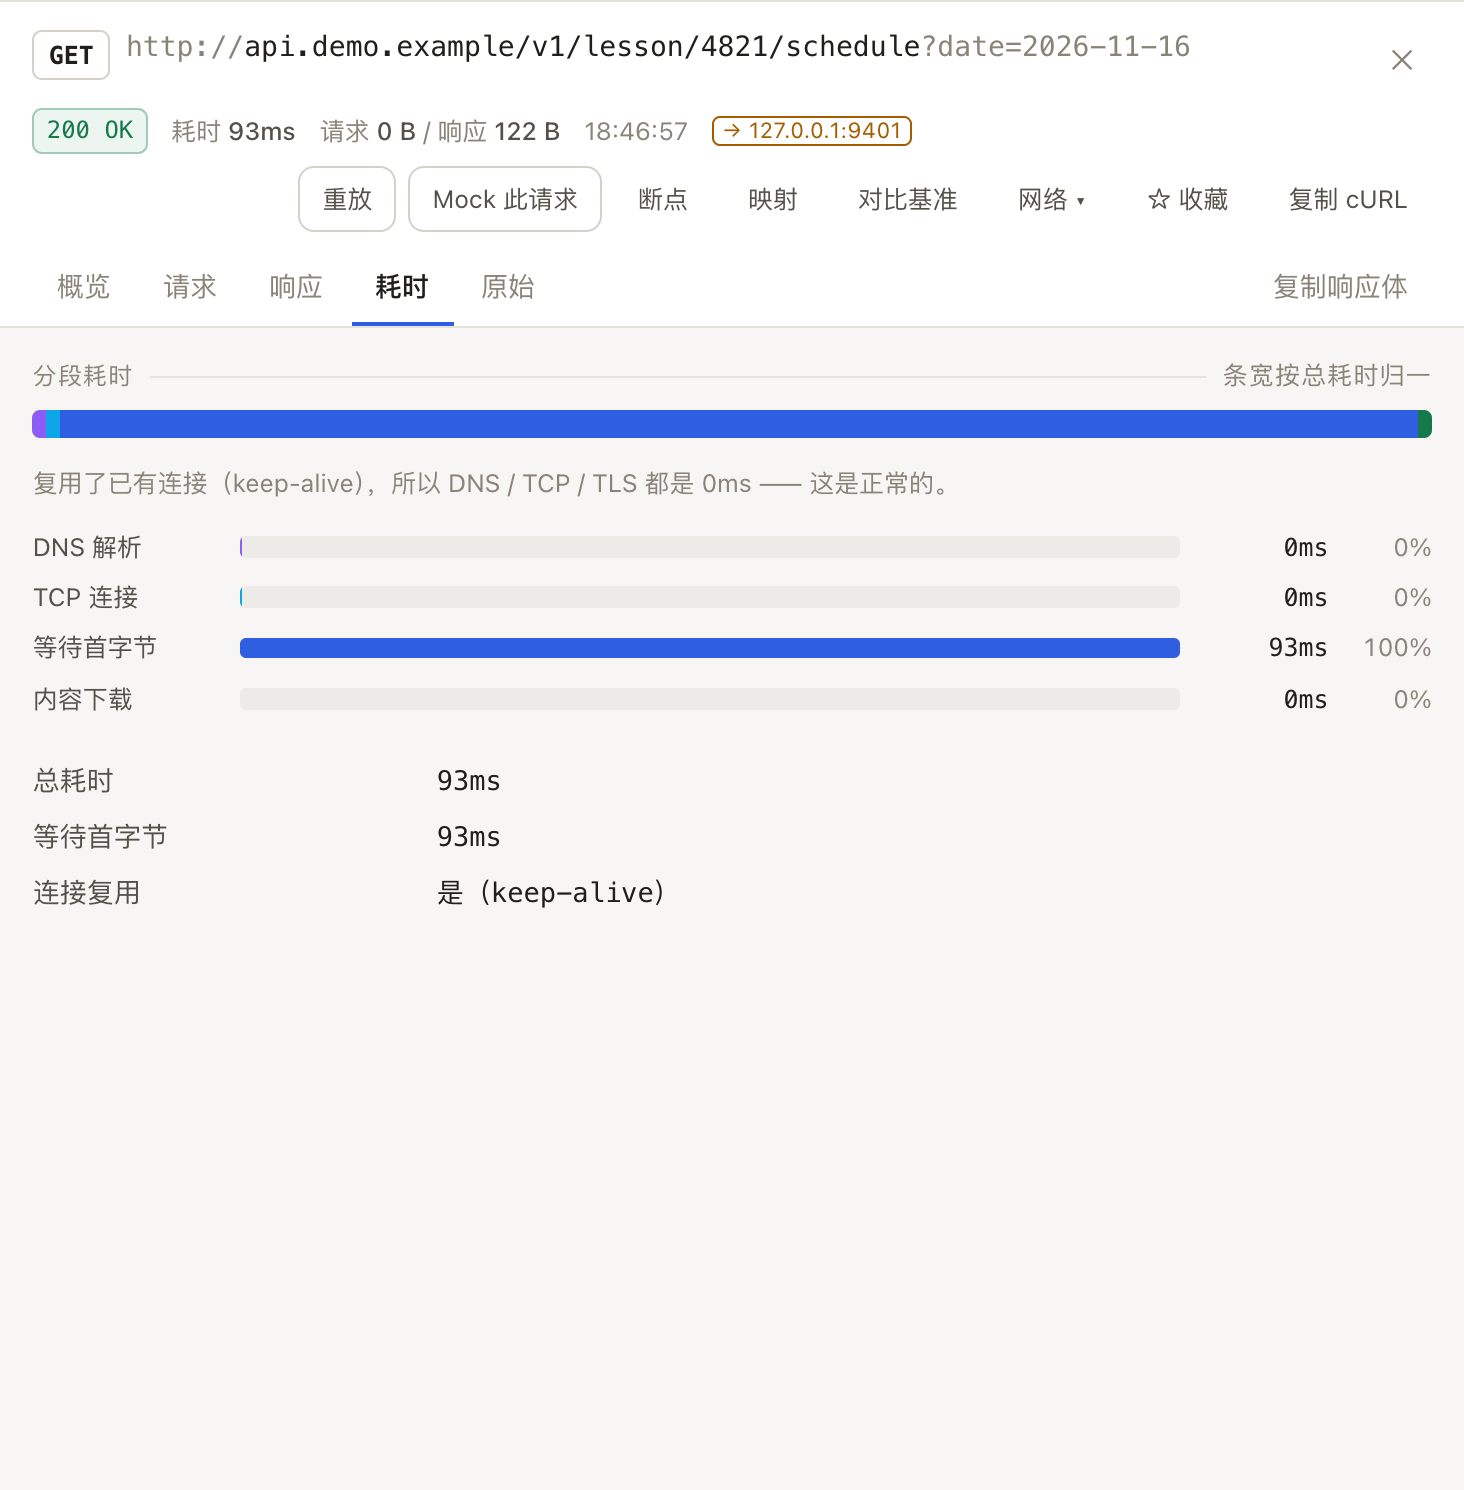
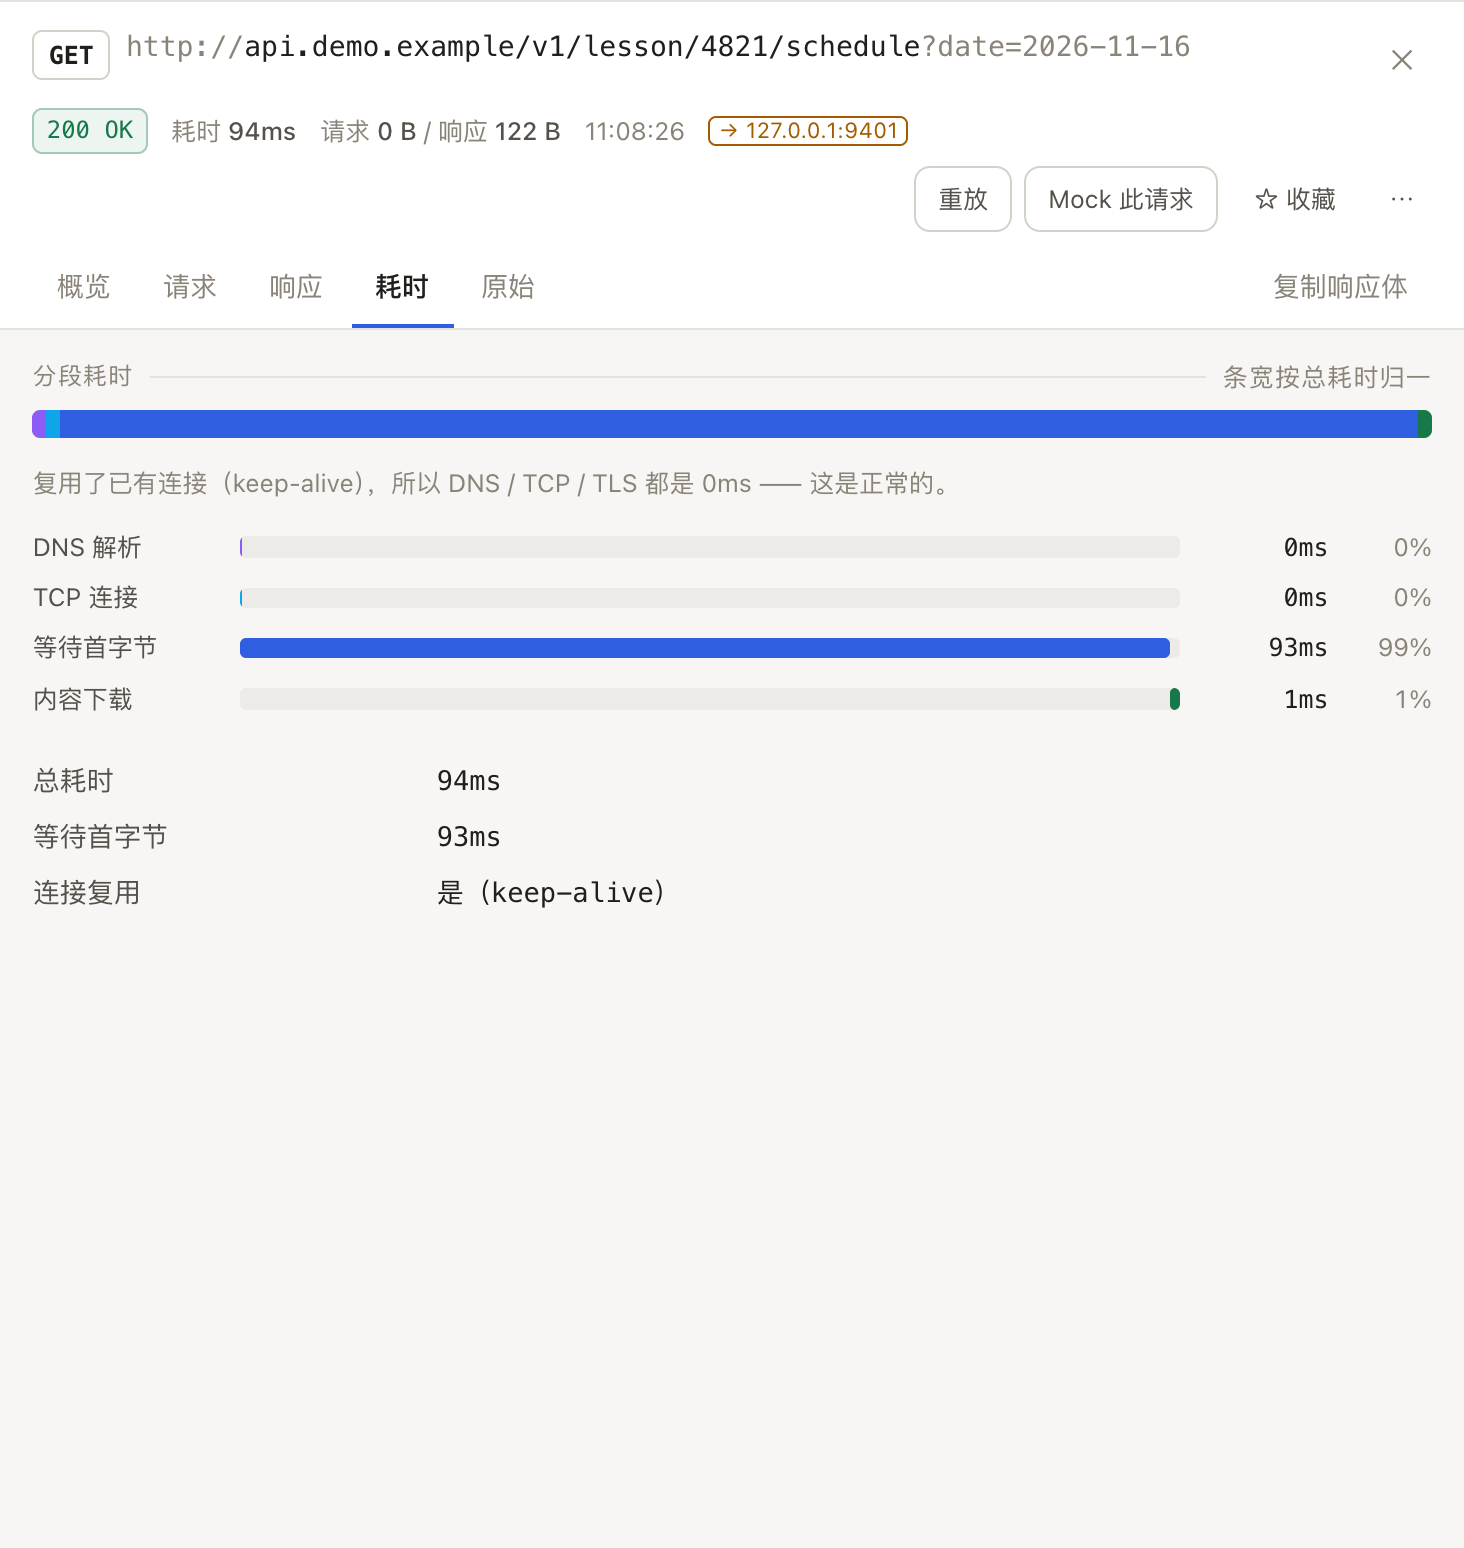
docs: 重新生成 README 截图（含新的设置页 / 详情 / 密度调整）
上次出图还是 1.3.20 那会儿，之后界面变动不少（筛选条收起、二级菜单、
详情按需打开、密度收紧、脚本面板重排、设置页折叠…），README 里的图已经过期。

用 tools/shots.js 在干净的临时实例上重跑一遍，6 张全部更新：
main / main-dark / overview / redact / messages / timing。
流量仍是脚本现造的 api.demo.example 假数据，敏感信息断言通过（无局域网 IP、
无 /Users/ 路径、无用户名）。

顺手修了截图脚本两个会「静默失败」的地方：
- 选中某条请求时改用 DOM 点击「#list 里可见的那一行」——同一接口有多条时
  page.click 会挑第一个匹配，未必是想要的那条（重跑几次后列表里有重复行，
  结果拍出来还是上一条 WS 详情）；
- 耗时截图改成「确认选中的确实是想拍的那条 → 等 .wf-row 出现」再落盘，
  失败会打印原因而不是无声跳过。原来 timing.png 就是这样一直没更新成。

diff --git a/tools/shots.js b/tools/shots.js
@@ -276,19 +276,47 @@ function viaProxy(host, path, { method = 'GET', headers = {}, body = null } = {}
 
   // 性能 / 总览之外的第三张：详情概览（含耗时瀑布）
   // 列表会随新流量重绘，旧 handle 可能已经脱离 DOM：这里每次都重新查
-  if (await page.$('.row:has-text("/v1/lesson/4821/schedule")')) {
-    await page.click('.row:has-text("/v1/lesson/4821/schedule")');
-    await page.waitForSelector('#tabs');
-    // 页签也会随详情重绘被换掉，同样用选择器点（handle 会失效）
-    if (await page.$('#tabs button[data-tab="timing"]')) {
-      await page.click('#tabs button[data-tab="timing"]');
-      await page.waitForTimeout(500);
-    }
-    if (await page.$('.wf-row')) {
+  // 详情概览（含分段耗时瀑布）：列表 / 详情都会被新流量重绘，
+  // 每步都要确认「选中的确实是这条」，否则会拍到一个没有瀑布图的 WS 详情
+  let shotTiming = false;
+  for (let i = 0; i < 6 && !shotTiming; i++) {
+    try {
+      const clicked = await page.evaluate(() => {
+        const rows = [...document.querySelectorAll('#list .row')].filter((r) =>
+          r.textContent.includes('/v1/lesson/4821/schedule'));
+        const row = rows.find((r) => r.getBoundingClientRect().height > 0) || rows[0];
+        if (!row) return false;
+        row.click();
+        return true;
+      });
+      if (!clicked) {
+        await page.waitForTimeout(350);
+        continue;
+      }
+      await page.waitForSelector('#tabs', { timeout: 2000 });
+      const onSchedule = await page.evaluate(() =>
+        ((document.querySelector('#detail .durl') || {}).textContent || '').includes('schedule'));
+      if (!onSchedule) {
+        await page.waitForTimeout(350);
+        continue;
+      }
+      const tab = await page.$('#tabs button[data-tab="timing"]');
+      if (!tab) {
+        await page.waitForTimeout(350);
+        continue;
+      }
+      await tab.click();
+      await page.waitForSelector('#detail .wf-row', { timeout: 2000 });
+      await page.waitForTimeout(400);
       await page.locator('#detail').screenshot({ path: path.join(OUT, 'timing.png') });
       console.log('shot timing');
+      shotTiming = true;
+    } catch (err) {
+      console.log('timing retry ' + (i + 1) + ':', String((err && err.message) || err).split('\n')[0]);
+      await page.waitForTimeout(400);
     }
   }
+  if (!shotTiming) console.log('⚠ 耗时截图跳过：没等到 #detail .wf-row');
 
   await browser.close();
   up.close(); sse.close(); ws.close();
